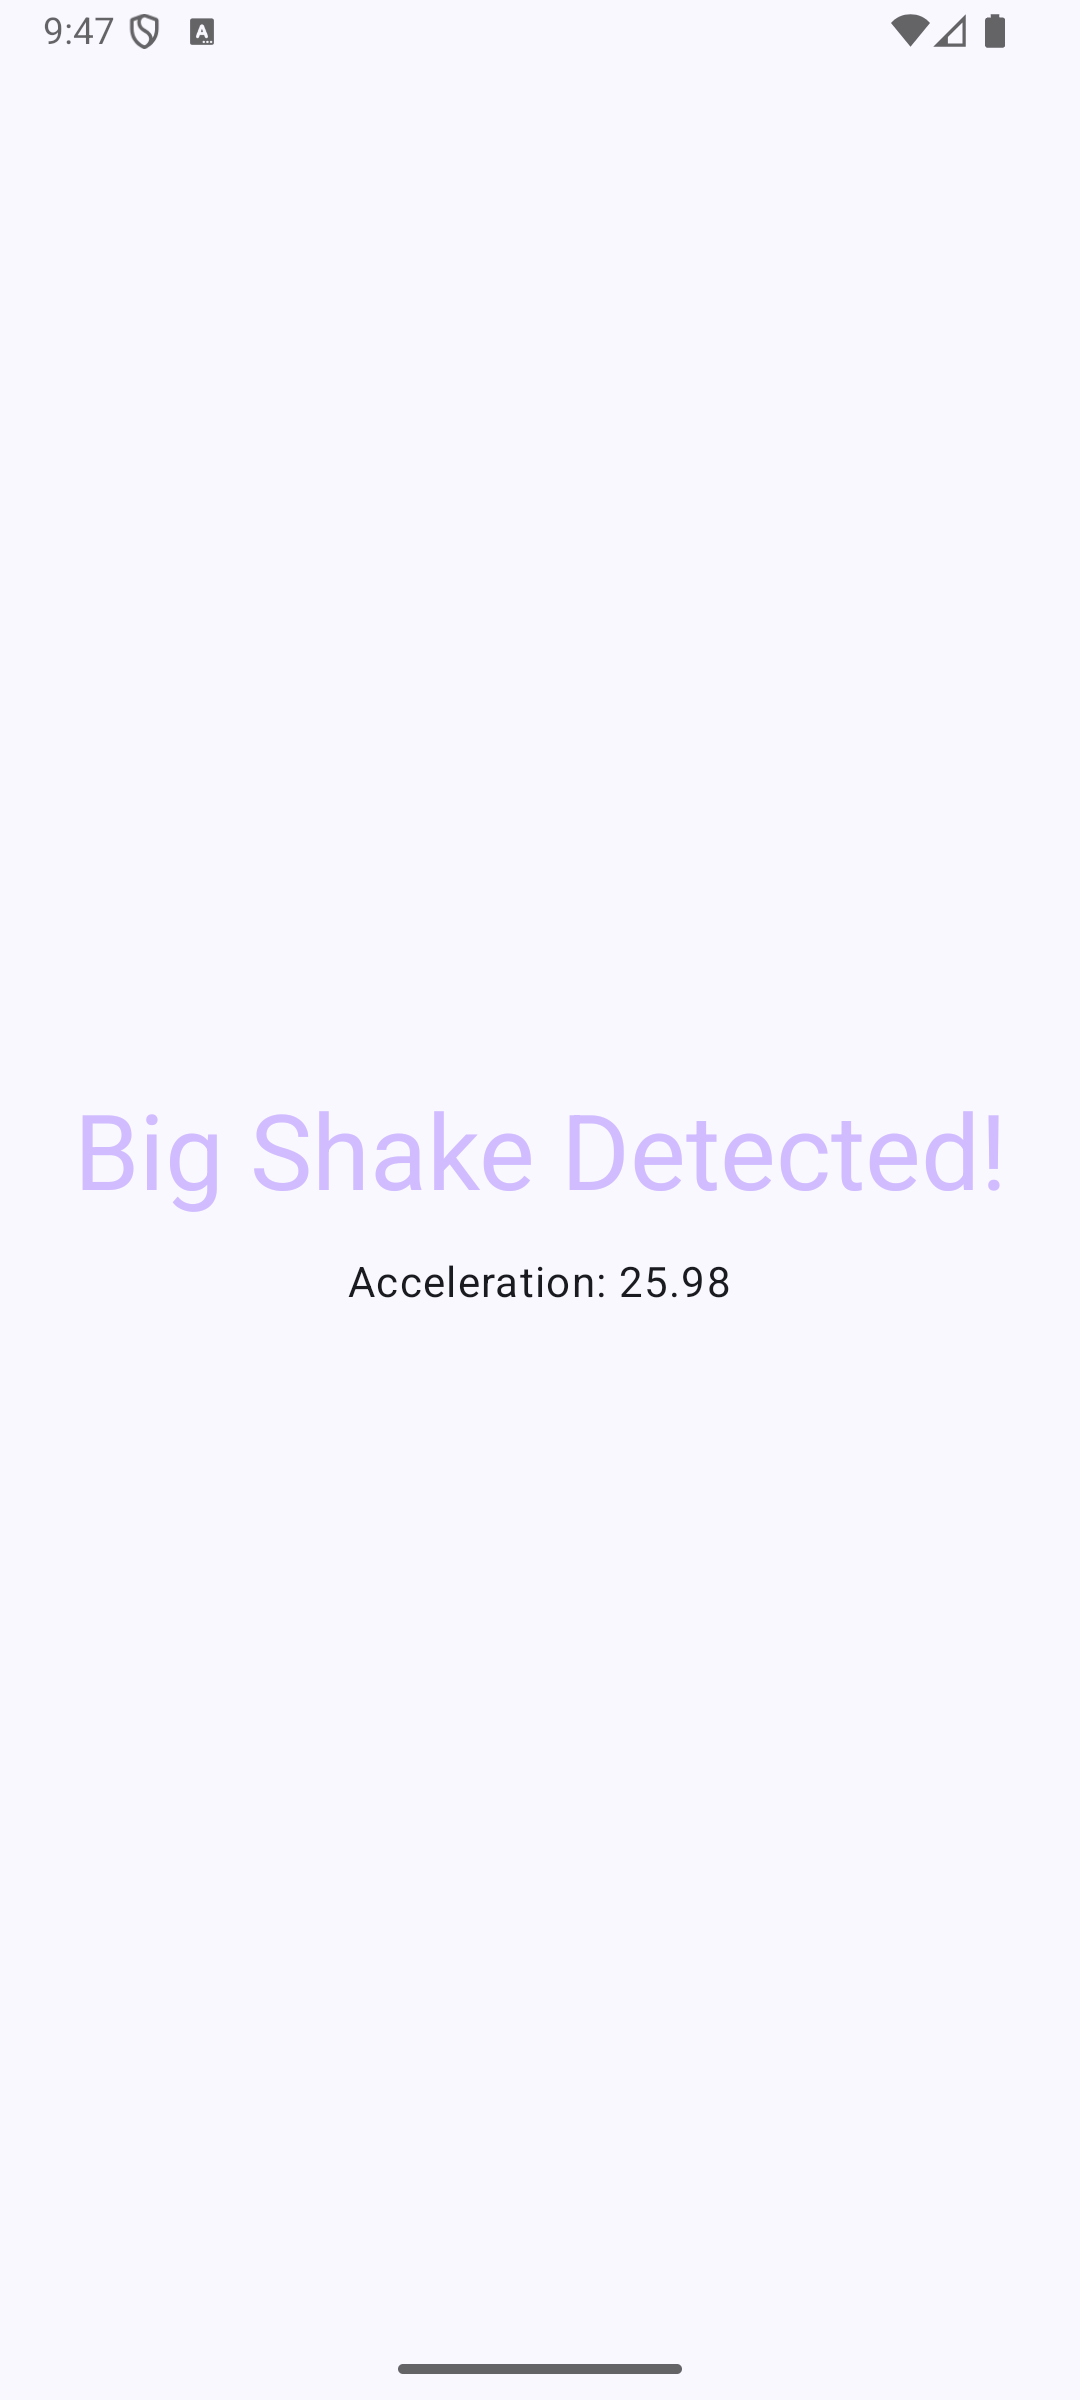
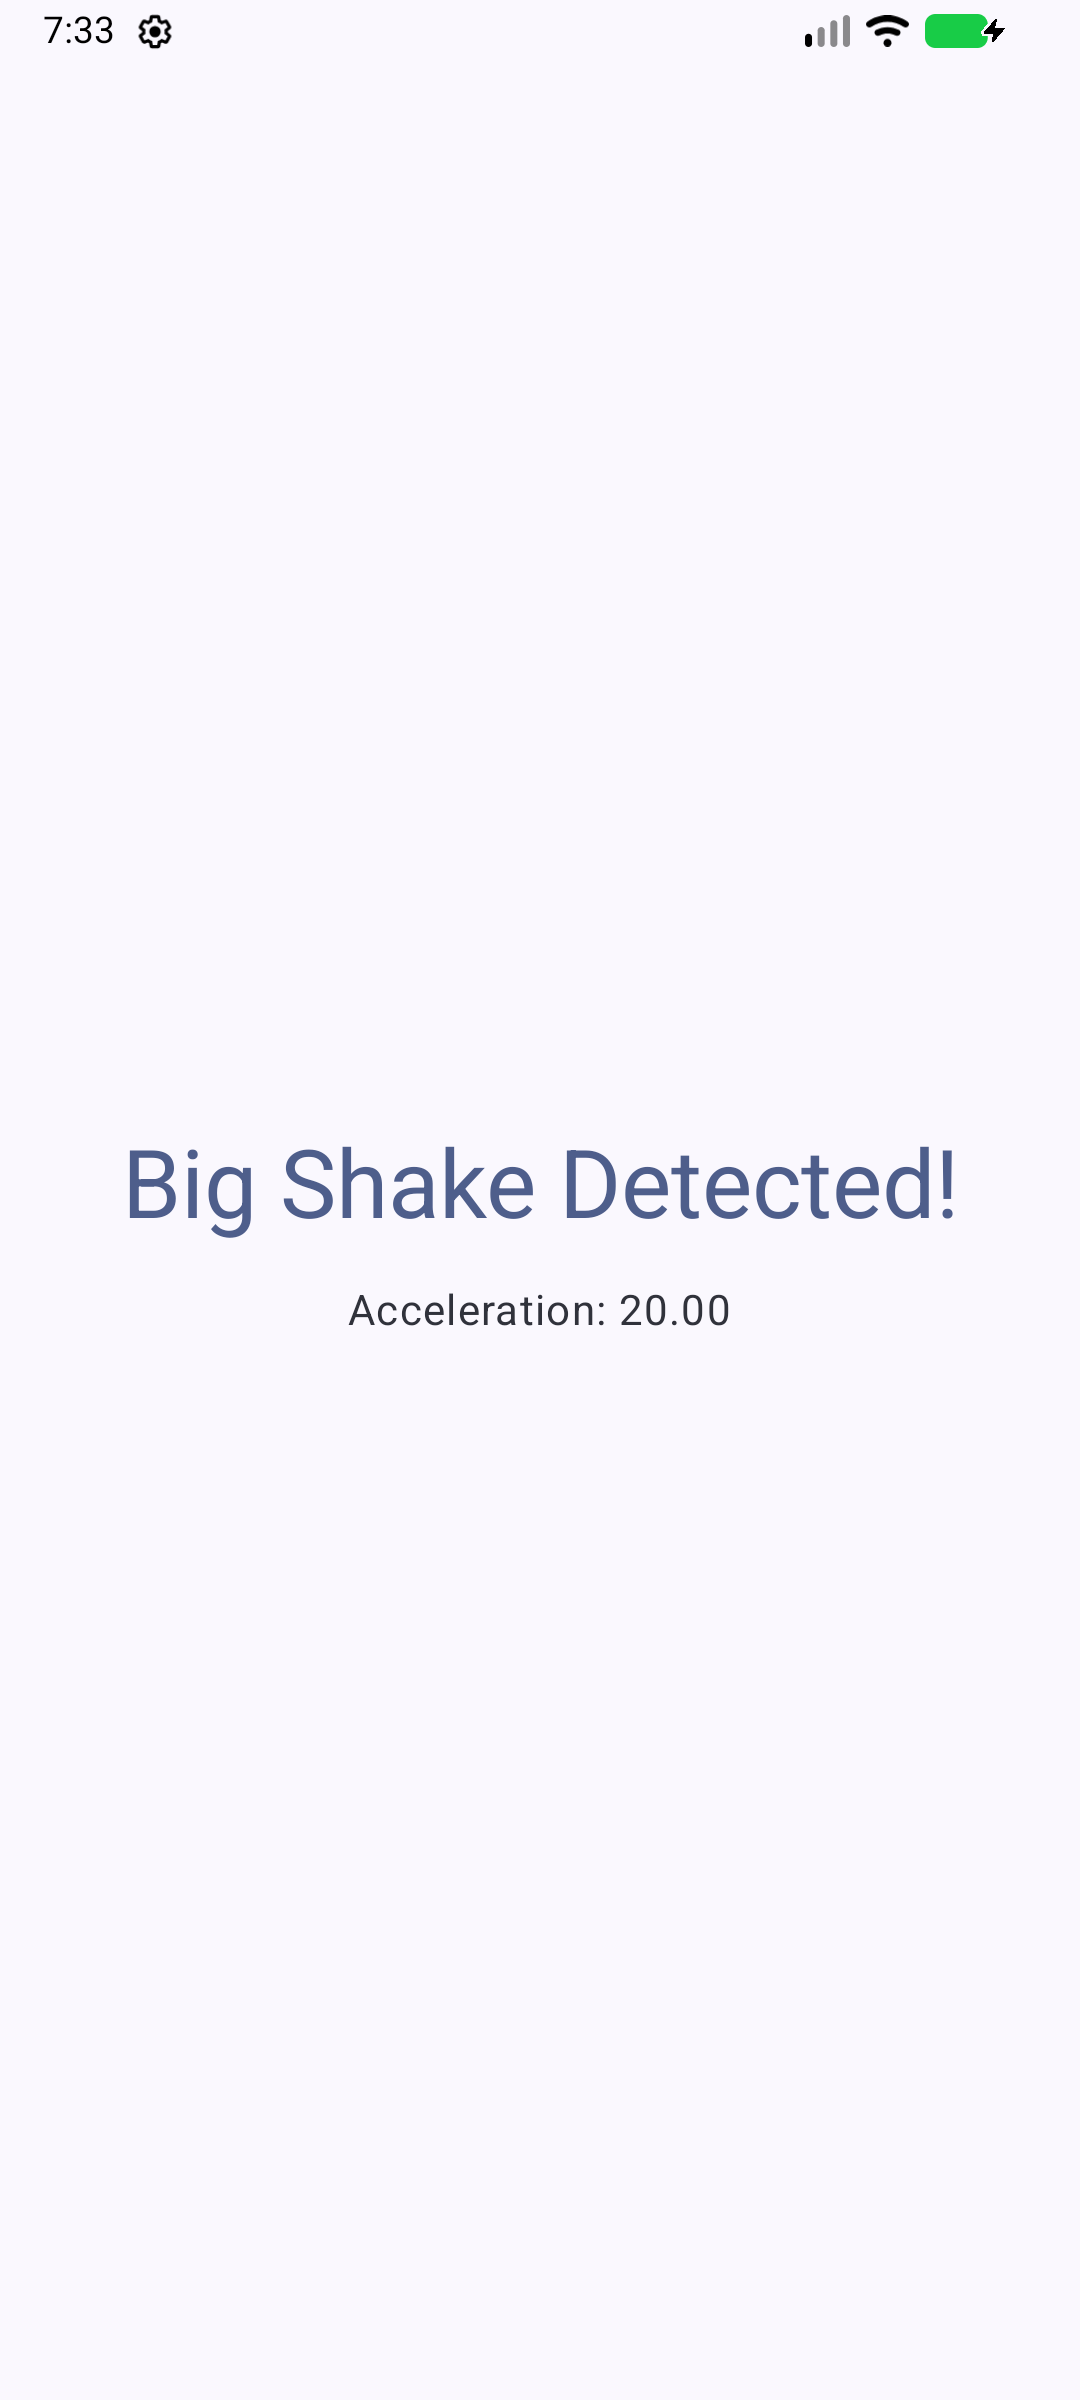
Document the new architecture and Lightbuild findings in the README
Describe the data source / ViewModel / stateless content split, the
release optimization setup, the accessibility and theming behaviour, and
the expanded test suite.

Record two rough edges found while doing this work, both verified
against Lightbuild 0.0.10-alpha01 by reading the generated Gradle under
.lightbuild/gradle and by experiment:

- kotlin.allWarningsAsErrors and kotlin.jvmTarget are schema-valid but
  do not work.
- Declaring an android.packaging.release block changes what a bare
  `android build` builds, with no warning.

Also note that the bundled JSON schemas inside the Lightbuild jar are
the most complete description of the config format available, and that
the generated Gradle is the quickest way to confirm a key took effect.

Refresh the screenshots: the shake colours now come from the Material 3
scheme, so the old fixed pink and purple captures no longer matched what
the app renders.

diff --git a/README.md b/README.md
@@ -15,13 +15,15 @@ Small Shake Detected!      →  magnitude > 11   (pink, vibrates)
 Big Shake Detected!        →  magnitude > 16   (purple, vibrates)
 ```
 
-| Idle (dark theme, on device) | Small shake | Big shake |
+| Idle | Small shake | Big shake |
 |:---:|:---:|:---:|
 | <img src="docs/idle.png" width="250" alt="Idle state"> | <img src="docs/small-shake.png" width="250" alt="Small shake state"> | <img src="docs/big-shake.png" width="250" alt="Big shake state"> |
 
-The small- and big-shake captures were taken on an emulator while driving the
-virtual accelerometer (`adb emu sensor set acceleration x:y:z`) — a handy way
-to test sensor apps without physically shaking anything.
+All three captures were taken on an emulator while driving the virtual
+accelerometer (`adb emu sensor set acceleration x:y:z`) — a handy way to test
+sensor apps without physically shaking anything. Note that the shake colours
+come from the Material 3 scheme, so with dynamic colour on Android 12+ they
+follow the device wallpaper rather than being fixed pink/purple.
 
 ## Technologies used
 
@@ -34,9 +36,52 @@ testers. Instead of imperative Gradle scripts, the whole build is described by:
 | File | Role |
 |---|---|
 | `project.lightbuild.yaml` | Project name, module list, repositories, Kotlin/Java versions, Lightbuild version |
-| `app/lightbuild.yaml` | Application module: `applicationId`, SDK levels, dependency on `//ui` |
+| `app/lightbuild.yaml` | Application module: `applicationId`, SDK levels, R8 release optimization, dependency on `//ui` |
 | `ui/lightbuild.yaml` | Library module: Maven dependencies, unit/instrumented test configuration |
 | `*/resolved.deps` | Pinned dependency resolution files for reproducible, offline-capable builds |
+
+The full set of keys Lightbuild accepts is described by the JSON schemas bundled
+inside its own jar (`lightbuild.yaml.schema.json` and
+`project.lightbuild.yaml.schema.json`) — handy when the online docs are thin.
+You can also read exactly what your YAML was translated into: Lightbuild writes
+the generated Gradle build to `.lightbuild/gradle/` (gitignored), which is the
+quickest way to confirm a key actually took effect.
+
+#### R8 / release optimization
+
+Release builds are shrunk and obfuscated:
+
+```yaml
+android:
+  packaging:
+    release:
+      optimization:
+        enable: true
+        keepRules:
+          includeDefault: true
+```
+
+`includeDefault` pulls in the default keep rules, which matter here because the
+Navigation 3 back stack is serialized via `kotlinx.serialization`. The effect is
+large for a demo app — **935 KB** release APK against 11.3 MB for debug — and
+`app/build/outputs/mapping/release/mapping.txt` is produced for deobfuscating
+release stack traces (CI archives it).
+
+#### Alpha rough edges found while building this
+
+Two schema-valid keys that currently do nothing, both verified against
+0.0.10-alpha01 by inspecting the generated Gradle and by experiment:
+
+| Key | Behaviour |
+|---|---|
+| `kotlin.allWarningsAsErrors` | Accepted; never reaches the compiler — a deliberate unused-variable warning still builds. Left in the config so it takes effect once implemented. |
+| `kotlin.jvmTarget` | Fails validation as *"integer found, string expected"* whether written `17` or `"17"` — the YAML parser coerces the string to an integer before the schema check. Project-level `build.java.version` works instead. |
+
+And one behavioural surprise worth knowing about: **declaring an
+`android.packaging.release` block changes what a bare `android build` builds**,
+from `//app:buildDebug` to `//app:buildRelease`. Nothing warns you; the debug
+APK simply stops appearing under `app/build/outputs/apk/debug/`. CI names the
+debug target explicitly for that reason.
 
 Behind the scenes Lightbuild converts these files to another build system that
 performs the actual build; you only ever edit the YAML.
@@ -66,39 +111,60 @@ android run --apks=app/build/outputs/apk/debug/app-debug.apk         # deploy
 - **[Jetpack Compose](https://developer.android.com/compose)** — declarative UI toolkit; the whole UI is composables, no XML layouts.
 - **[Material 3](https://developer.android.com/develop/ui/compose/designsystems/material3)** — theming (dynamic color on Android 12+, light/dark themes) and typography.
 - **[Navigation 3](https://developer.android.com/guide/navigation/navigation-3)** — the new Compose-native navigation library (`NavDisplay` + a type-safe, serializable back stack).
-- **[SensorManager](https://developer.android.com/develop/sensors-and-location/sensors/sensors_motion)** — raw `TYPE_ACCELEROMETER` events; the shake magnitude is `sqrt(x² + y² + z²)`. The listener is registered/unregistered with the composable lifecycle via `DisposableEffect`.
+- **[SensorManager](https://developer.android.com/develop/sensors-and-location/sensors/sensors_motion)** — raw `TYPE_ACCELEROMETER` events; the shake magnitude is `sqrt(x² + y² + z²)`. `AccelerometerDataSource` exposes the sensor as a cold `Flow` built with `callbackFlow`, so the listener is registered on collection and unregistered in `awaitClose`.
+- **[ViewModel](https://developer.android.com/topic/libraries/architecture/viewmodel) + `StateFlow`** — `ShakeDetectorViewModel` turns the raw stream into a `ShakeUiState`. `stateIn(WhileSubscribed(5_000))` plus `collectAsStateWithLifecycle()` means the accelerometer is only subscribed while the UI is actually visible: backgrounding the app releases the sensor instead of draining the battery. Verified with `adb shell dumpsys sensorservice`, which logs the matching `+`/`−` registration pair.
 - **[Vibrator / VibratorManager](https://developer.android.com/reference/android/os/VibratorManager)** — haptic feedback on shake detection, with API-level-aware fallbacks down to `minSdk 24`.
 - **Edge-to-edge** — `enableEdgeToEdge()` + `safeDrawingPadding()`.
 
 ### Module structure
 
 ```
-app/   → application shell (manifest, applicationId, depends on //ui)
-ui/    → library module with all Compose UI, sensors logic, and tests
+app/   → application shell (manifest, applicationId, R8 config, depends on //ui)
+ui/    → library module with all Compose UI, sensor logic, and tests
 ```
+
+Inside `ui/`, the shake feature follows the standard
+[Android architecture](https://developer.android.com/topic/architecture) split:
+
+```
+AccelerometerDataSource   → SensorManager wrapped as a cold Flow<Float>
+ShakeDetectorViewModel    → Flow → StateFlow<ShakeUiState> (+ pure `reduce`)
+ShakeDetectorScreen       → stateful: collects the ViewModel, fires haptics
+ShakeDetectorContent      → stateless: drives previews and UI tests
+```
+
+`ShakeUiState.reduce()` is a pure, clock-injected function, so the "hold the
+label for a second after the last shake" behaviour is unit tested on the JVM
+rather than by waiting on a real device.
 
 ## Testing
 
 ### Unit tests (`ui/src/test`)
 
-The shake-classification logic is a pure function (`classifyShake` in
-`ShakeLevel.kt`), tested on the JVM without any device:
+All the shake logic is pure, so it is tested on the JVM without any device:
 
 ```sh
 android build test
 ```
 
-`ShakeLevelTest` covers rest/gravity, both thresholds as exclusive bounds, and
-values just above each threshold.
+- `ShakeLevelTest` covers `classifyShake`: rest/gravity, both thresholds as
+  exclusive bounds, and values just above each threshold.
+- `ShakeUiStateTest` covers `ShakeUiState.reduce`: a shake being detected, the
+  label being held while the device settles, the hold expiring back to idle, and
+  a second shake restarting the hold window. Time is injected, so none of these
+  tests sleep.
+
+12 unit tests total.
 
 ### UI tests (`ui/src/androidTest`)
 
 `ShakeDetectorScreenTest` uses the **Compose testing APIs**
 (`createAndroidComposeRule`, `onNodeWithText`) with **AndroidJUnitRunner** to
-verify each UI state renders the right message. The screen is split into a
-stateful wrapper (`ShakeDetectorScreen`) and a stateless
-`ShakeDetectorContent(shakeLevel, acceleration)` so tests can drive every state
-deterministically — no need to physically shake the test device.
+verify each UI state renders the right message, including the no-accelerometer
+fallback. The screen is split into a stateful wrapper (`ShakeDetectorScreen`)
+and a stateless `ShakeDetectorContent(uiState)` so tests can drive every state
+deterministically — no need to physically shake the test device. Assertions read
+their expected text from `strings.xml`, so they don't drift from the UI.
 
 Run them on a connected device/emulator with:
 
@@ -111,8 +177,17 @@ adb shell am instrument -w com.jpcottin.shakedetectortest.test/androidx.test.run
 ### Composable previews
 
 `ShakeDetectorPreviews.kt` provides `@Preview`s for every state (idle, small
-shake, big shake, and dark mode) rendered in Android Studio's preview panel —
-another benefit of the stateless-content split.
+shake, big shake, dark mode, the no-accelerometer fallback, and a 2× font-scale
+variant that catches accessibility clipping) rendered in Android Studio's
+preview panel — another benefit of the stateless-content split.
+
+### Accessibility & theming
+
+The shake label is a `liveRegion`, so TalkBack announces state changes that a
+sighted user perceives as a colour change. Colours and text sizes come from
+`MaterialTheme.colorScheme` / `typography` rather than hardcoded values, so the
+UI honours dynamic colour on Android 12+ and scales with the user's font-size
+setting.
 
 ## Getting started
 
